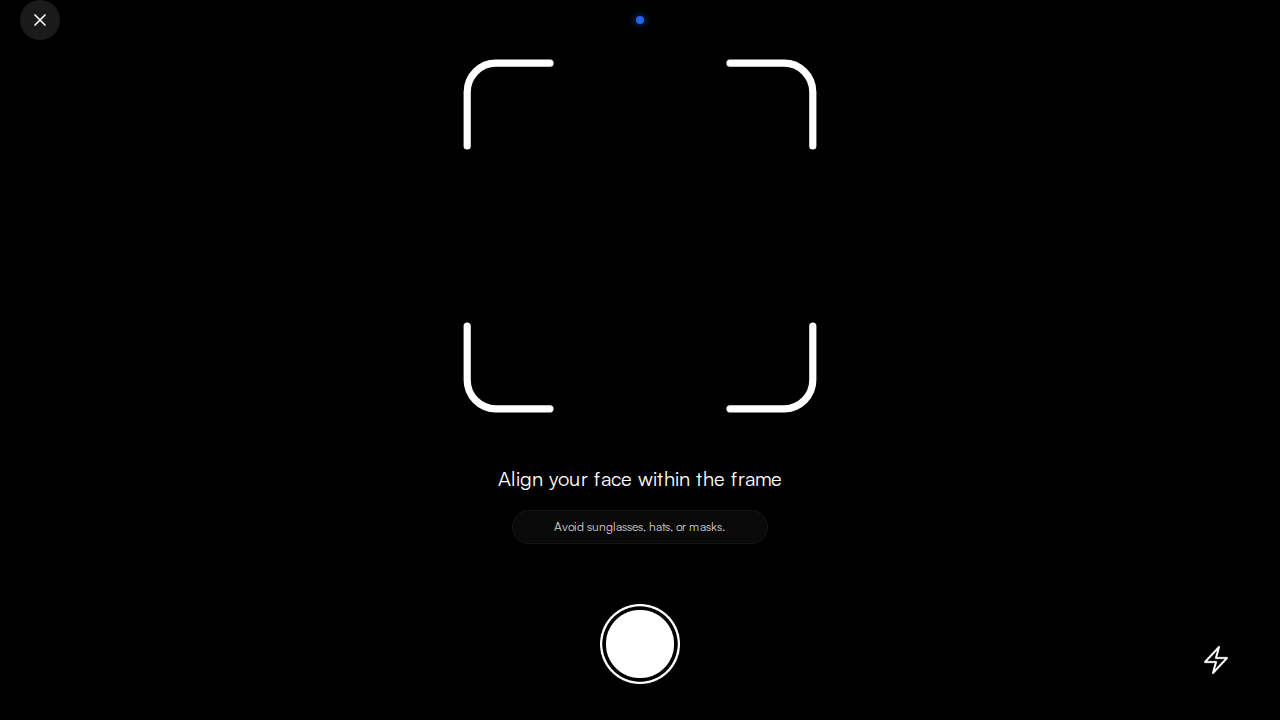
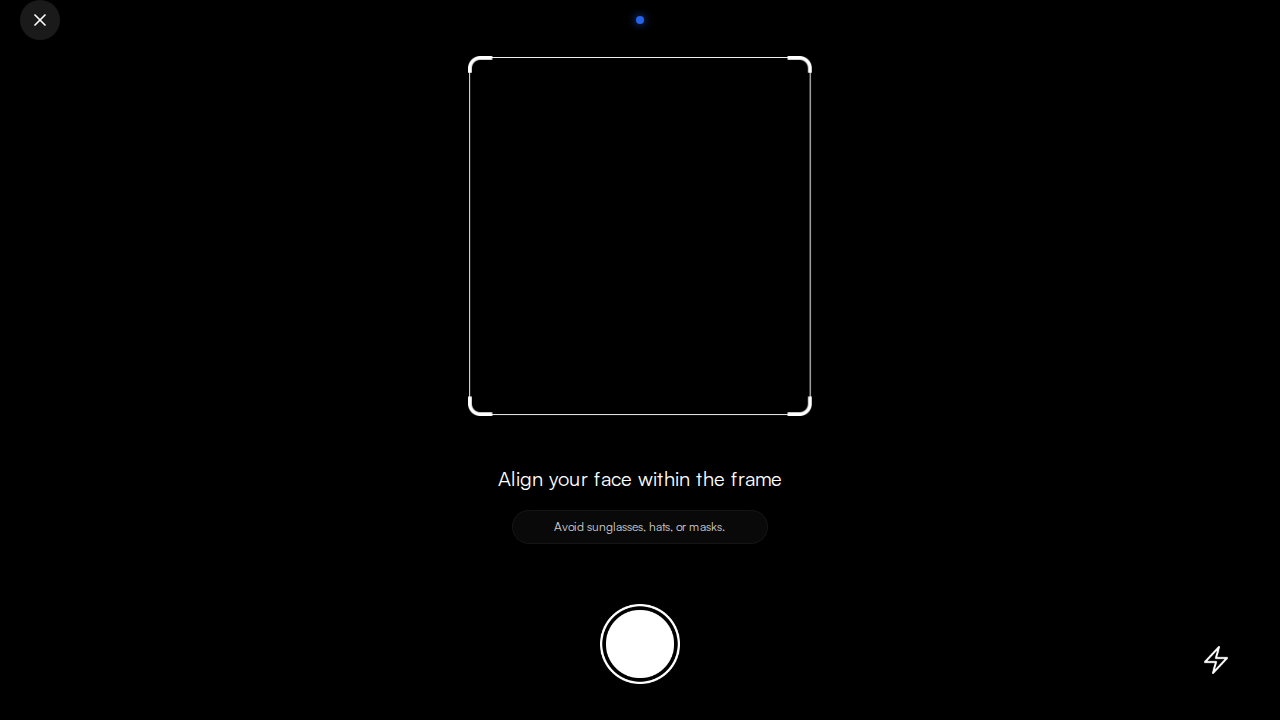
feat: update kyc selfie camera frame asset
- Replaced SVG camera frame with `frame.png` asset in `KYCSelfie.tsx`.
- Added `frame.png` to `src/assets`.

diff --git a/src/pages/KYCSelfie.tsx b/src/pages/KYCSelfie.tsx
@@ -6,6 +6,7 @@ import stepsBg from "@/assets/kyc-steps-bg.png";
 import flashIcon from "@/assets/flash.png";
 import shutterIcon from "@/assets/shutter.png";
 import thumbnailBg from "@/assets/thumbnail-bg.png";
+import frameIcon from "@/assets/frame.png";
 import { Button } from "@/components/ui/button";
 
 const KYCSelfie = () => {
@@ -149,18 +150,9 @@ const KYCSelfie = () => {
 
           {/* Camera Viewport Simulation */}
           <div className="flex-1 relative bg-black flex flex-col items-center justify-center">
-              {/* Frame Corners SVG */}
-              <div className="relative w-[85%] aspect-square max-w-[360px]">
-                <svg className="w-full h-full absolute inset-0 text-white" viewBox="0 0 100 100" fill="none" xmlns="http://www.w3.org/2000/svg" preserveAspectRatio="none">
-                    {/* Top Left */}
-                    <path d="M25 2H10C5.58172 2 2 5.58172 2 10V25" stroke="currentColor" strokeWidth="2" strokeLinecap="round"/>
-                    {/* Top Right */}
-                    <path d="M75 2H90C94.4183 2 98 5.58172 98 10V25" stroke="currentColor" strokeWidth="2" strokeLinecap="round"/>
-                    {/* Bottom Left */}
-                    <path d="M25 98H10C5.58172 98 2 94.4183 2 90V75" stroke="currentColor" strokeWidth="2" strokeLinecap="round"/>
-                    {/* Bottom Right */}
-                    <path d="M75 98H90C94.4183 98 98 94.4183 98 90V75" stroke="currentColor" strokeWidth="2" strokeLinecap="round"/>
-                </svg>
+              {/* Frame Asset */}
+              <div className="relative w-[85%] aspect-square max-w-[360px] flex items-center justify-center">
+                <img src={frameIcon} alt="Frame" className="w-full h-full object-contain" />
               </div>
 
               {/* Text Instructions */}
